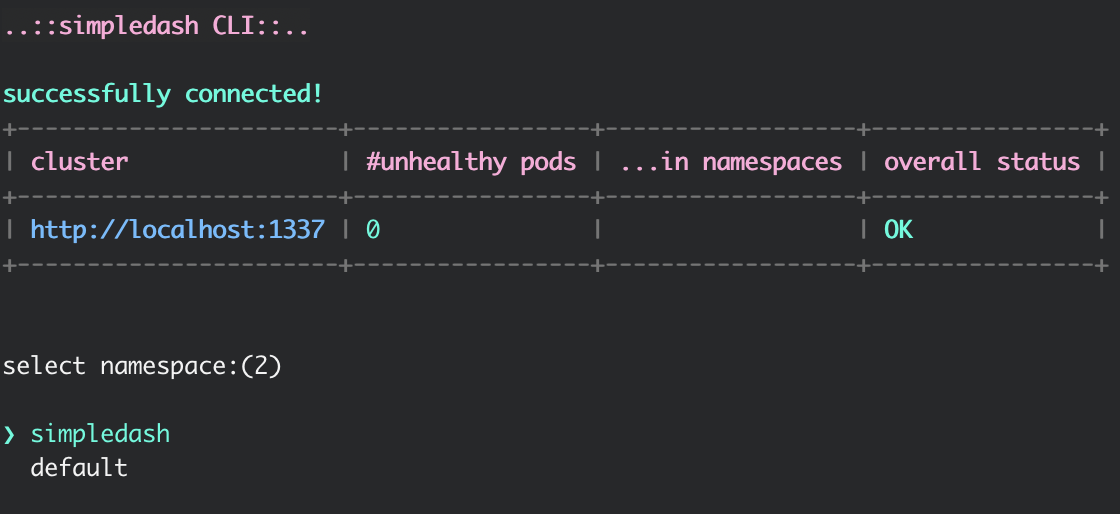
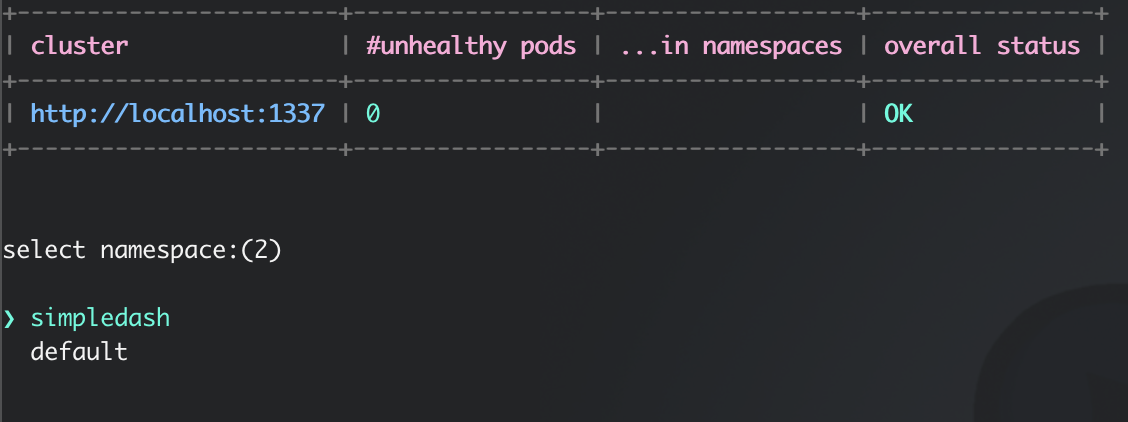
cleaned up cli output and updated screenshots

diff --git a/src/cli.rs b/src/cli.rs
@@ -13,7 +13,7 @@ pub fn parse_args() -> Settings {
     let args: Vec<String> = std::env::args().collect();
     for (i, arg) in args.iter().enumerate() {
         if arg == "--help" {
-            println!("Usage: sc -h <host>");
+            println!("Usage: sc -h <host> (e.g -h https://simpledash.mycompany.com)");
             std::process::exit(0);
         }
         if arg == "--version" {
@@ -24,7 +24,7 @@ pub fn parse_args() -> Settings {
             if i + 1 < args.len() {
                 host = args[i + 1].clone();
             } else {
-                eprintln!("Error: -h requires a host argument");
+                eprintln!("{}","Error: -h requires a host (e.g -h https://simpledash.mycompany.com)".red().bold());
                 std::process::exit(1);
             }
         }
@@ -32,7 +32,7 @@ pub fn parse_args() -> Settings {
     if host == "" {
         eprintln!(
             "{}",
-            "You have to provide a host with -h <host>".red().bold()
+            "You have to provide a host with -h <host> (e.g -h https://simpledash.mycompany.com)".red().bold()
         );
         std::process::exit(1);
     }

diff --git a/src/main.rs b/src/main.rs
@@ -11,11 +11,11 @@ use tungstenite::{stream::MaybeTlsStream, WebSocket};
 
 fn main() {
     let settings = cli::parse_args();
-    clear_screen();
     let mut socket = client::connect_to_host(&settings.host).expect("Error connecting to host");
     let cluster_info =
         client::get_cluster_info(&settings.host).expect("Failed to fetch Simpledash Context");
 
+    clear_screen();
     let peek_payload = visualize_cluster_status(&mut socket, &settings.host);
     let ns = select_namespace(&cluster_info);
     visualize_payload(peek_payload, &ns, &cluster_info);
